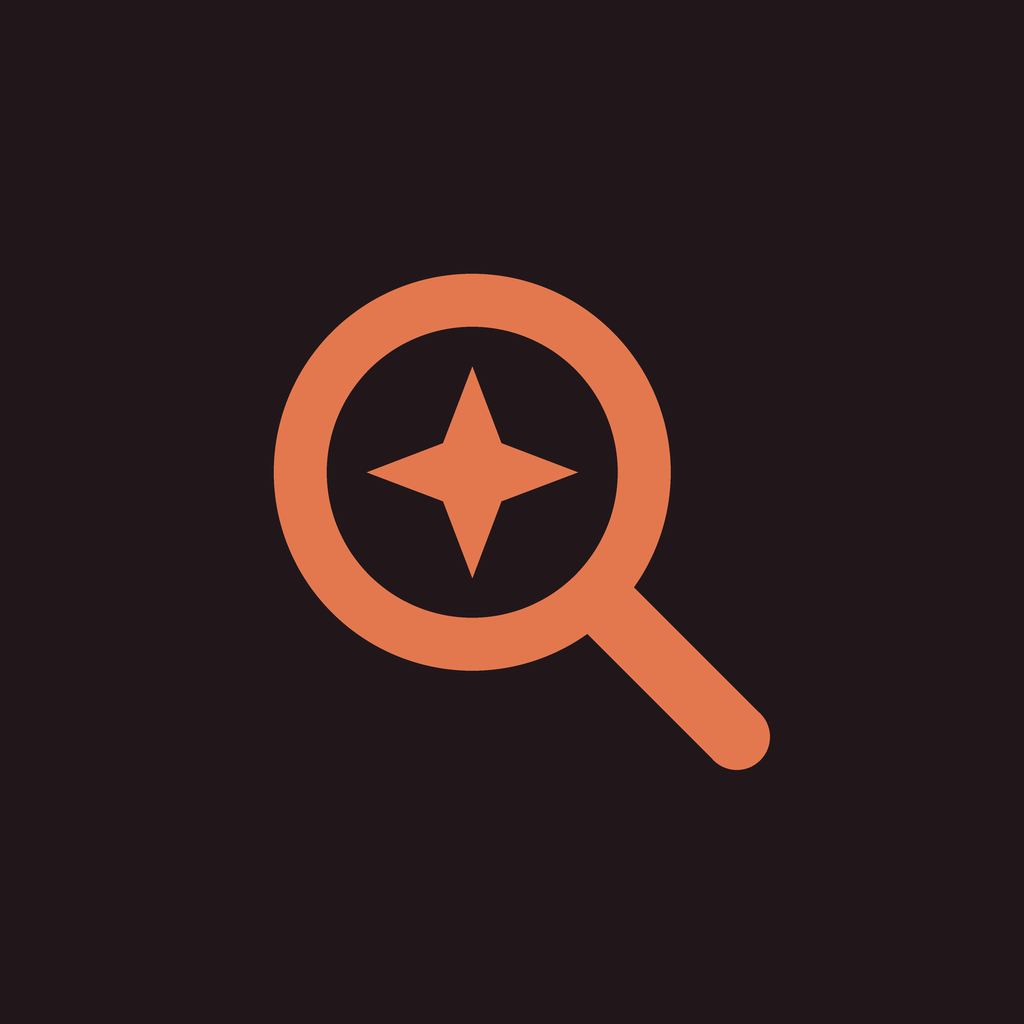
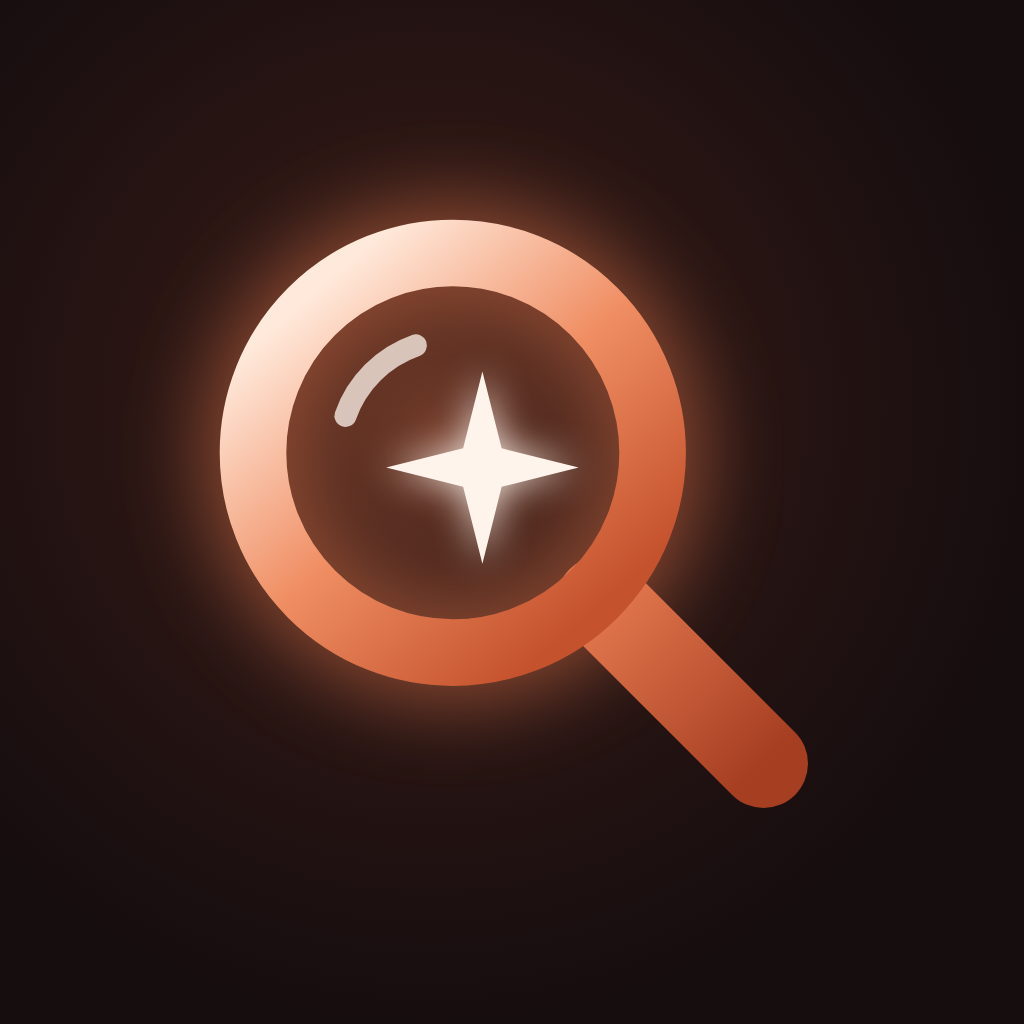
Use the glowing lens as the brand mark
New logo mark: a cream-to-coral magnifying glass with a sparkle inside and
a soft glow. It stands in for the o in the StreamScout wordmark and is the
app icon, Android adaptive icon and favicon, on a dark velvet tile.

Claude-Session: https://claude.ai/code/session_01TpWT2iw3ufMn2boHwr5nAX

Changed region(s): [[0.1562, 0.1562, 0.8125, 0.8125]]

diff --git a/src/components/Logo.tsx b/src/components/Logo.tsx
@@ -12,11 +12,11 @@ const WORDMARK_FONT = Platform.select({
 
 /**
  * The StreamScout wordmark: "Stream" in cream, "Scout" in coral, with the lens
- * (a magnifying glass with a sparkle) standing in for the "o".
+ * (the glowing magnifying glass with a sparkle, the brand mark) standing in for the "o".
  * `size` is the font size; the lens scales with it.
  */
 export function Logo({ size = 22 }: { size?: number }) {
-  const lensSize = size * 0.8;
+  const lensSize = size * 0.88;
   const text = { fontSize: size, lineHeight: size * 1.2 };
   return (
     <View style={styles.row} accessible accessibilityRole="header" accessibilityLabel="StreamScout">
@@ -29,7 +29,7 @@ export function Logo({ size = 22 }: { size?: number }) {
           width: lensSize,
           height: lensSize,
           // Sit the lens ring on the text's baseline, with the handle dipping just below it.
-          marginBottom: size * 0.04,
+          marginBottom: size * 0.03,
           marginHorizontal: size * 0.01,
         }}
         contentFit="contain"

diff --git a/CLAUDE.md b/CLAUDE.md
@@ -28,7 +28,7 @@ App for finding movies/TV shows and seeing where they stream in Sweden. One Expo
 - Member title state (`src/api/userTitles.ts`): seen, thumbs rating and "not interested" in table `public.user_titles` (RLS, own rows); set from `TitleActions` on the title page. `useWithoutHidden` drops hidden titles from rows, grids and search; `MediaCard` shows a seen badge
 - My List: "On my services" filter and service logos per card via `useAvailability`. Home: "Because you saved …" rows from the newest movie/TV show in My List
 - Search filters: genre is matched on the results' `genreIds`; service via each result's providers (`useFilteredResults`), auto-loading up to 5 pages
-- Logo (`src/components/Logo.tsx`): wordmark "StreamSc🔍ut" – text in Fraunces Bold (`@expo-google-fonts/fraunces`, loaded with `useFonts` in `app/_layout.tsx`, bundled – never load fonts from Google's servers), "Scout" in coral, and the lens-with-sparkle mark (`assets/logo-mark.png`) as the "o". App icon, adaptive icon and favicon use the mark alone. Tagline: "Find your next favorite."
+- Logo (`src/components/Logo.tsx`): wordmark "StreamSc🔍ut" – text in Fraunces Bold (`@expo-google-fonts/fraunces`, loaded with `useFonts` in `app/_layout.tsx`, bundled – never load fonts from Google's servers), "Scout" in coral, and the brand mark – "the glowing lens", a cream-to-coral magnifying glass with a sparkle inside (`assets/logo-mark.png`) – as the "o". App icon, adaptive icon and favicon use the mark alone, glowing on a dark velvet tile. The source design is the Signature artboard on the "StreamScout logo" Design canvas Tagline: "Find your next favorite."
 - Import from `src` with the `@/` alias
 - Wording: "Movies", "TV Shows", "My List"; "Movie"/"TV Show" as type labels
 - Everything must work on web, iOS and Android – avoid web- or native-only APIs without a fallback
